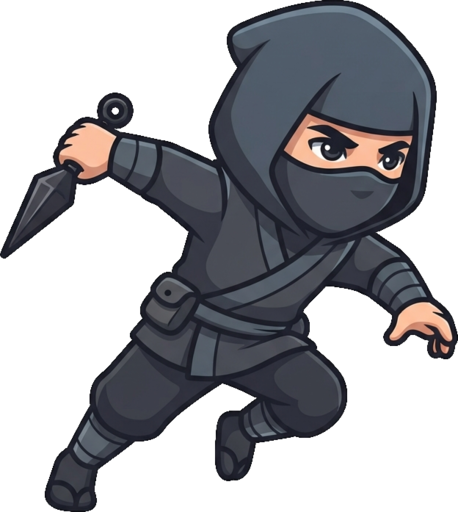
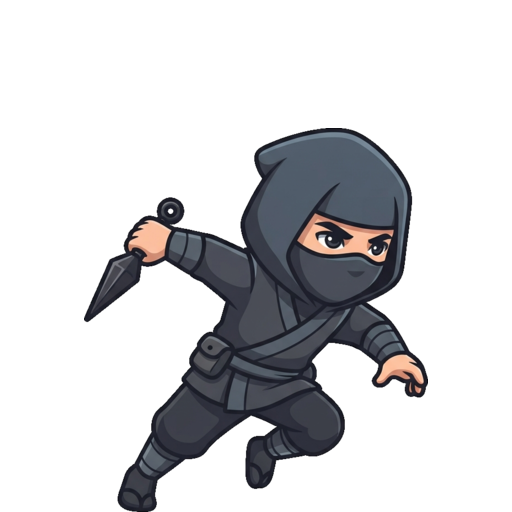
feat(art): combat_scale を新設し、戦闘立ち絵に相対サイズを効かせる
combat の書き出しはトリム＋長辺512縮小だけだったので、どの駒も枠いっぱいに
描かれて大小の差が消えていた。map と同型にして、高さ＝384×combat_scale を
512四方へ下端揃えで貼る。演出側は全ユニットを同じ正方形に KEEP_ASPECT で描き、
キャンバス下端を足元線に合わせるので、これで比率がそのまま画面に出る。

倍率は unit_skin.csv の combat_scale（値はいまのところ map_scale と同じ。盤と
戦闘で詰め方を変えられるよう列は分けた）。既存21枚を再生成。

あわせて手番板の胸像を get_used_rect() 基準に修正。キャンバスの固定位置で切って
いたため、map_scale の小さい駒（pixie 0.35 等）で頭が枠から外れていた。

diff --git a/doc/art/units.md b/doc/art/units.md
@@ -121,7 +121,9 @@ SUBJECT（生成プロンプト本体）の置き場：
 - 攻撃エフェクト：ユニットごと1枚（combat_effect）。相手の隊列上に重ねて出す（斬撃＝被弾側／魔法＝着弾側）。
 - 保管は §3.1 と同じ二層。追加スロットは -src 側に `_combat` トークンを前置して map ソースと共存する（map は既定＝トークン無し）：
   - 作業ソース `assets/units-src/{group}/{skin_id}/`：`{skin_id}_combat_01_raw.png` → `_combat_03_master.png`（トリム＝透過で透かしも落ちるので dew(02) は飛ばす。番号は master=03 で固定＝[direction.md](direction.md) §3 の3段命名と一致）。SUBJECT は `{skin_id}_combat_prompt.txt`。英雄／エフェクトは `_combat_hero_`／`_combat_effect_` で同様。
-  - ゲーム用 `assets/units/{skin_id}/`：`{skin_id}_combat.png`（＋任意 `_combat_hero.png`／`_combat_effect.png`）。master をトリム→長辺512pxに縮小・透過維持で書き出す（256四方・減色はしない＝combat は演出側が KEEP_ASPECT で縮小表示）。書き出しは [`tools/gen_unit_combat.ps1`](../../tools/gen_unit_combat.ps1)（`{skin_id}` 複数可／`all`）。
+  - ゲーム用 `assets/units/{skin_id}/`：`{skin_id}_combat.png`（＋任意 `_combat_hero.png`／`_combat_effect.png`）。master をトリム→「高さ＝384×`combat_scale` → 512四方・下端揃え・透過」で書き出す（減色はしない）。書き出しは [`tools/gen_unit_combat.ps1`](../../tools/gen_unit_combat.ps1)（`{skin_id}` 複数可／`all`）。
+  - 倍率は `unit_skin.csv` の `combat_scale`（map の `map_scale` と対。今は同値だが、盤と戦闘で詰め方を変えられるよう列を分けてある）。相対サイズを担保しているのは固定キャンバスのほうで、演出側は全ユニットを同じ正方形に KEEP_ASPECT で描き、キャンバス下端を足元線に合わせる。トリムだけで書き出すと、どの駒も枠いっぱいに描かれて大小の差が消える。
+  - 横に広い駒はキャンバス幅にも収める＝はみ出す代わりに縮む。
 - 生成順：combat は map と同じ生成セッションで一緒に出す（全スロットを一度に）。text アンカーだけでは既存キャラは再現できず、別セッションでは同一キャラにならないため（i2i は使わない方針＝[direction.md](direction.md) §3）。既存ユニットに後から足す場合は、そのユニットを map から作り直す。
 
 生成は3ブロックを順に貼る：STYLE（共通・固定・ポーズ非依存）＋ POSE（下のカタログから役割で選ぶ）＋ SUBJECT（ユニット別）。POSE と SUBJECT は `{skin_id}_combat_prompt.txt` に一緒に置く（先頭に POSE 行 → SUBJECT）。STYLE は本 doc が正本。
